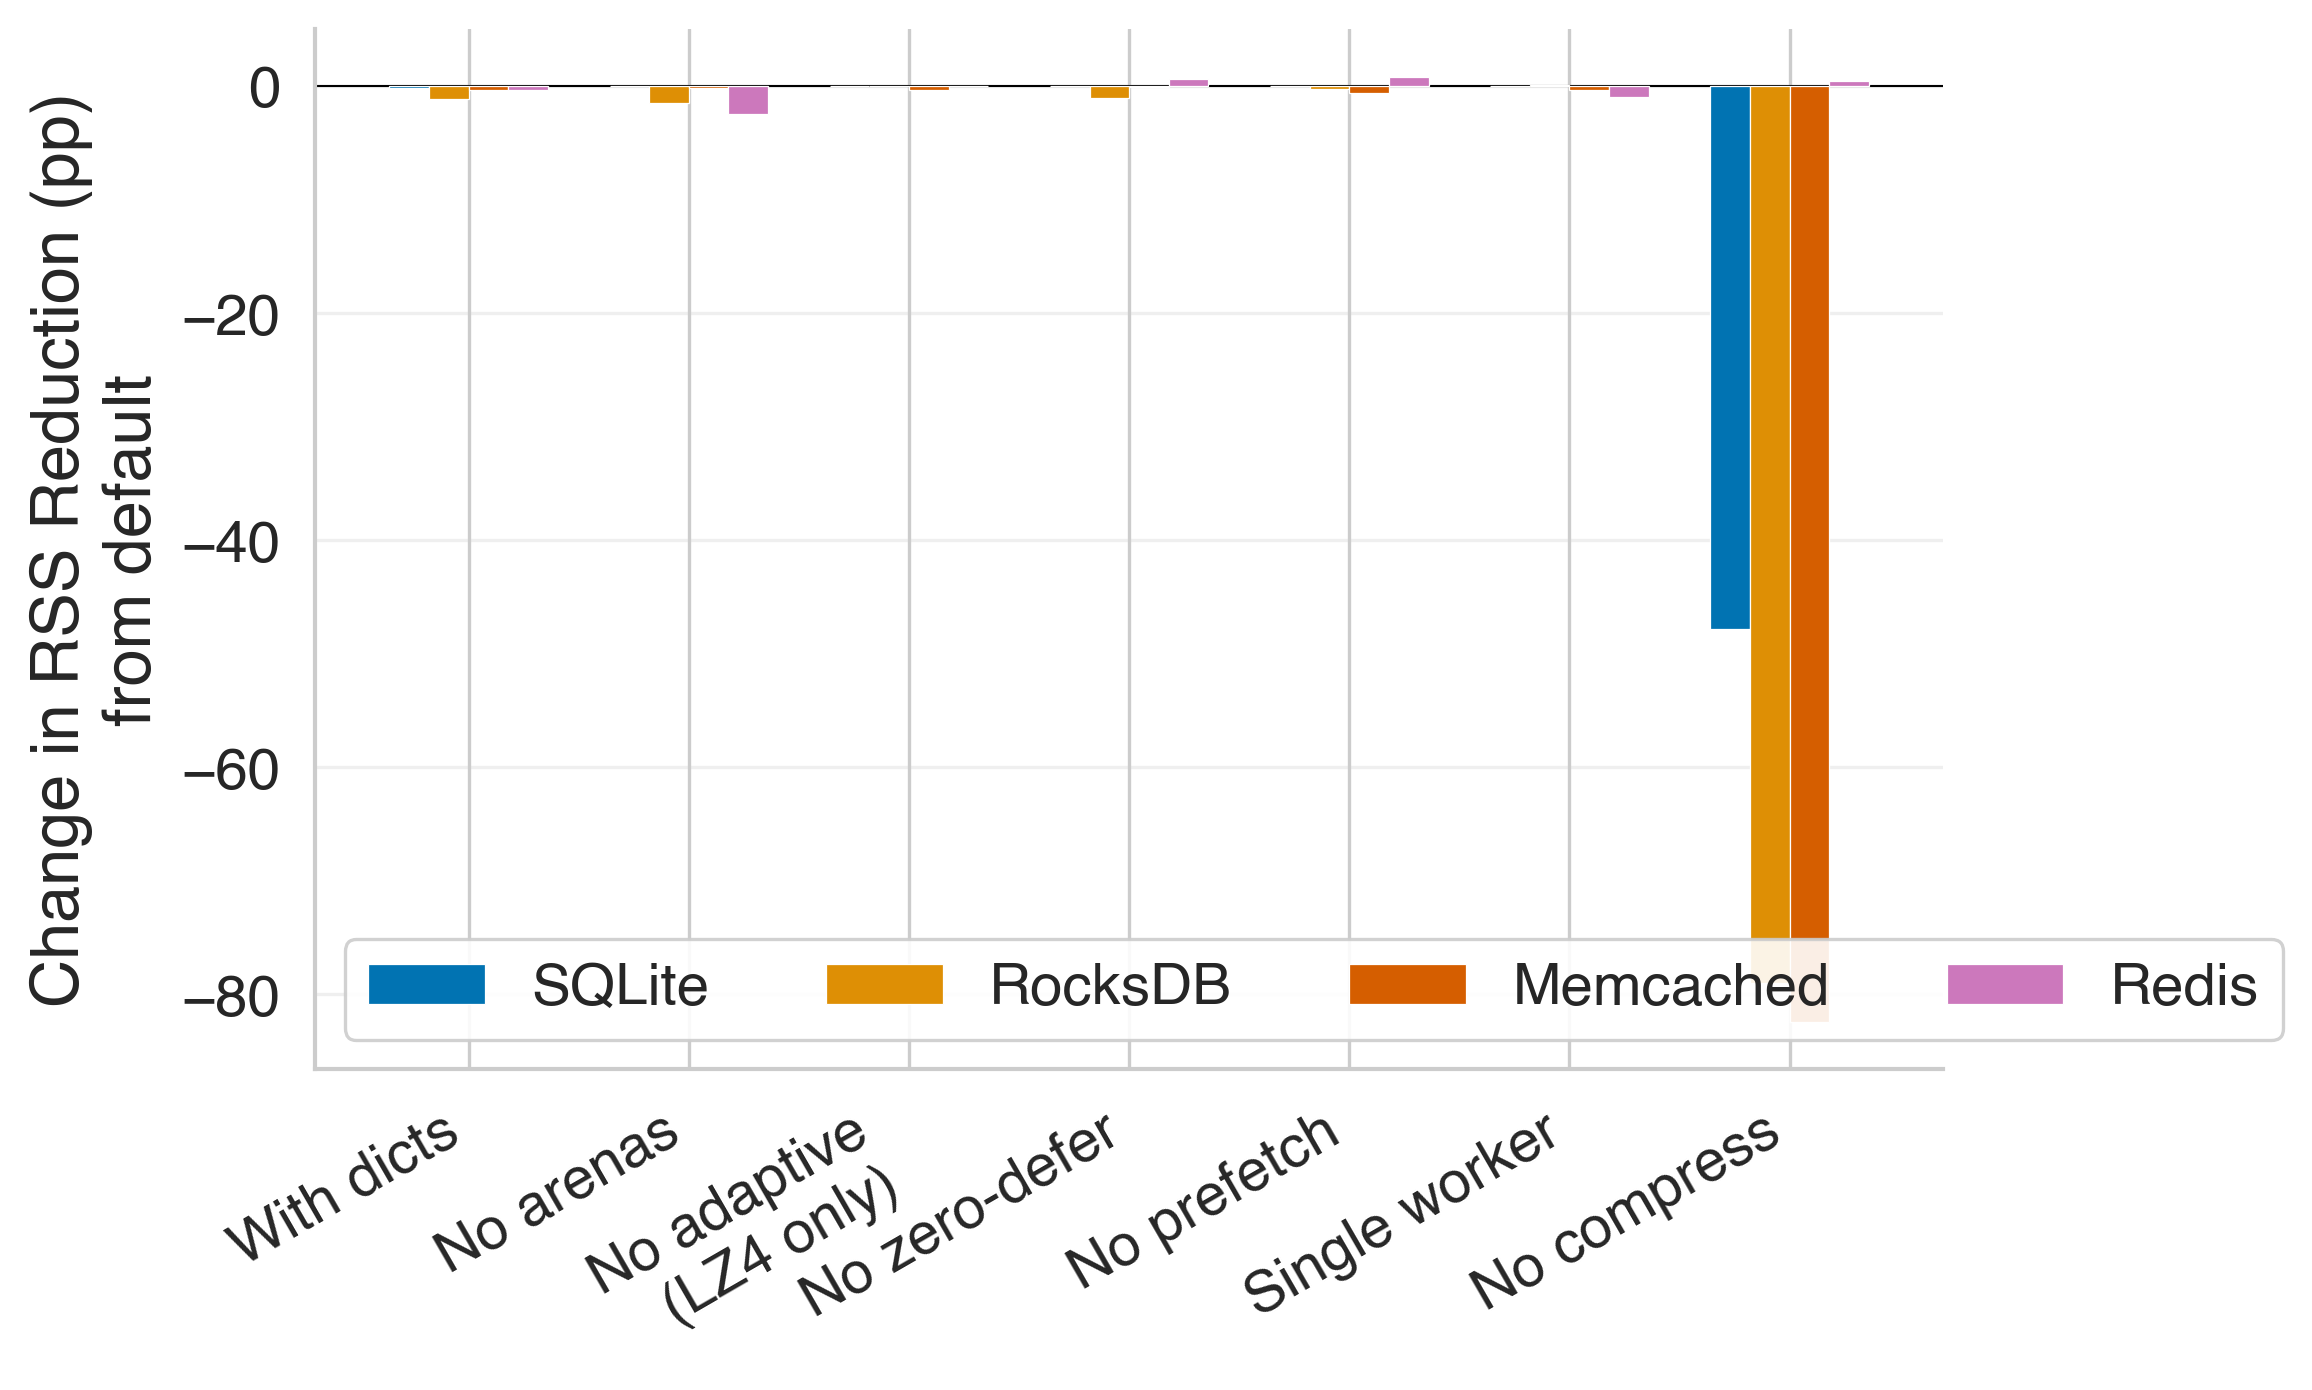
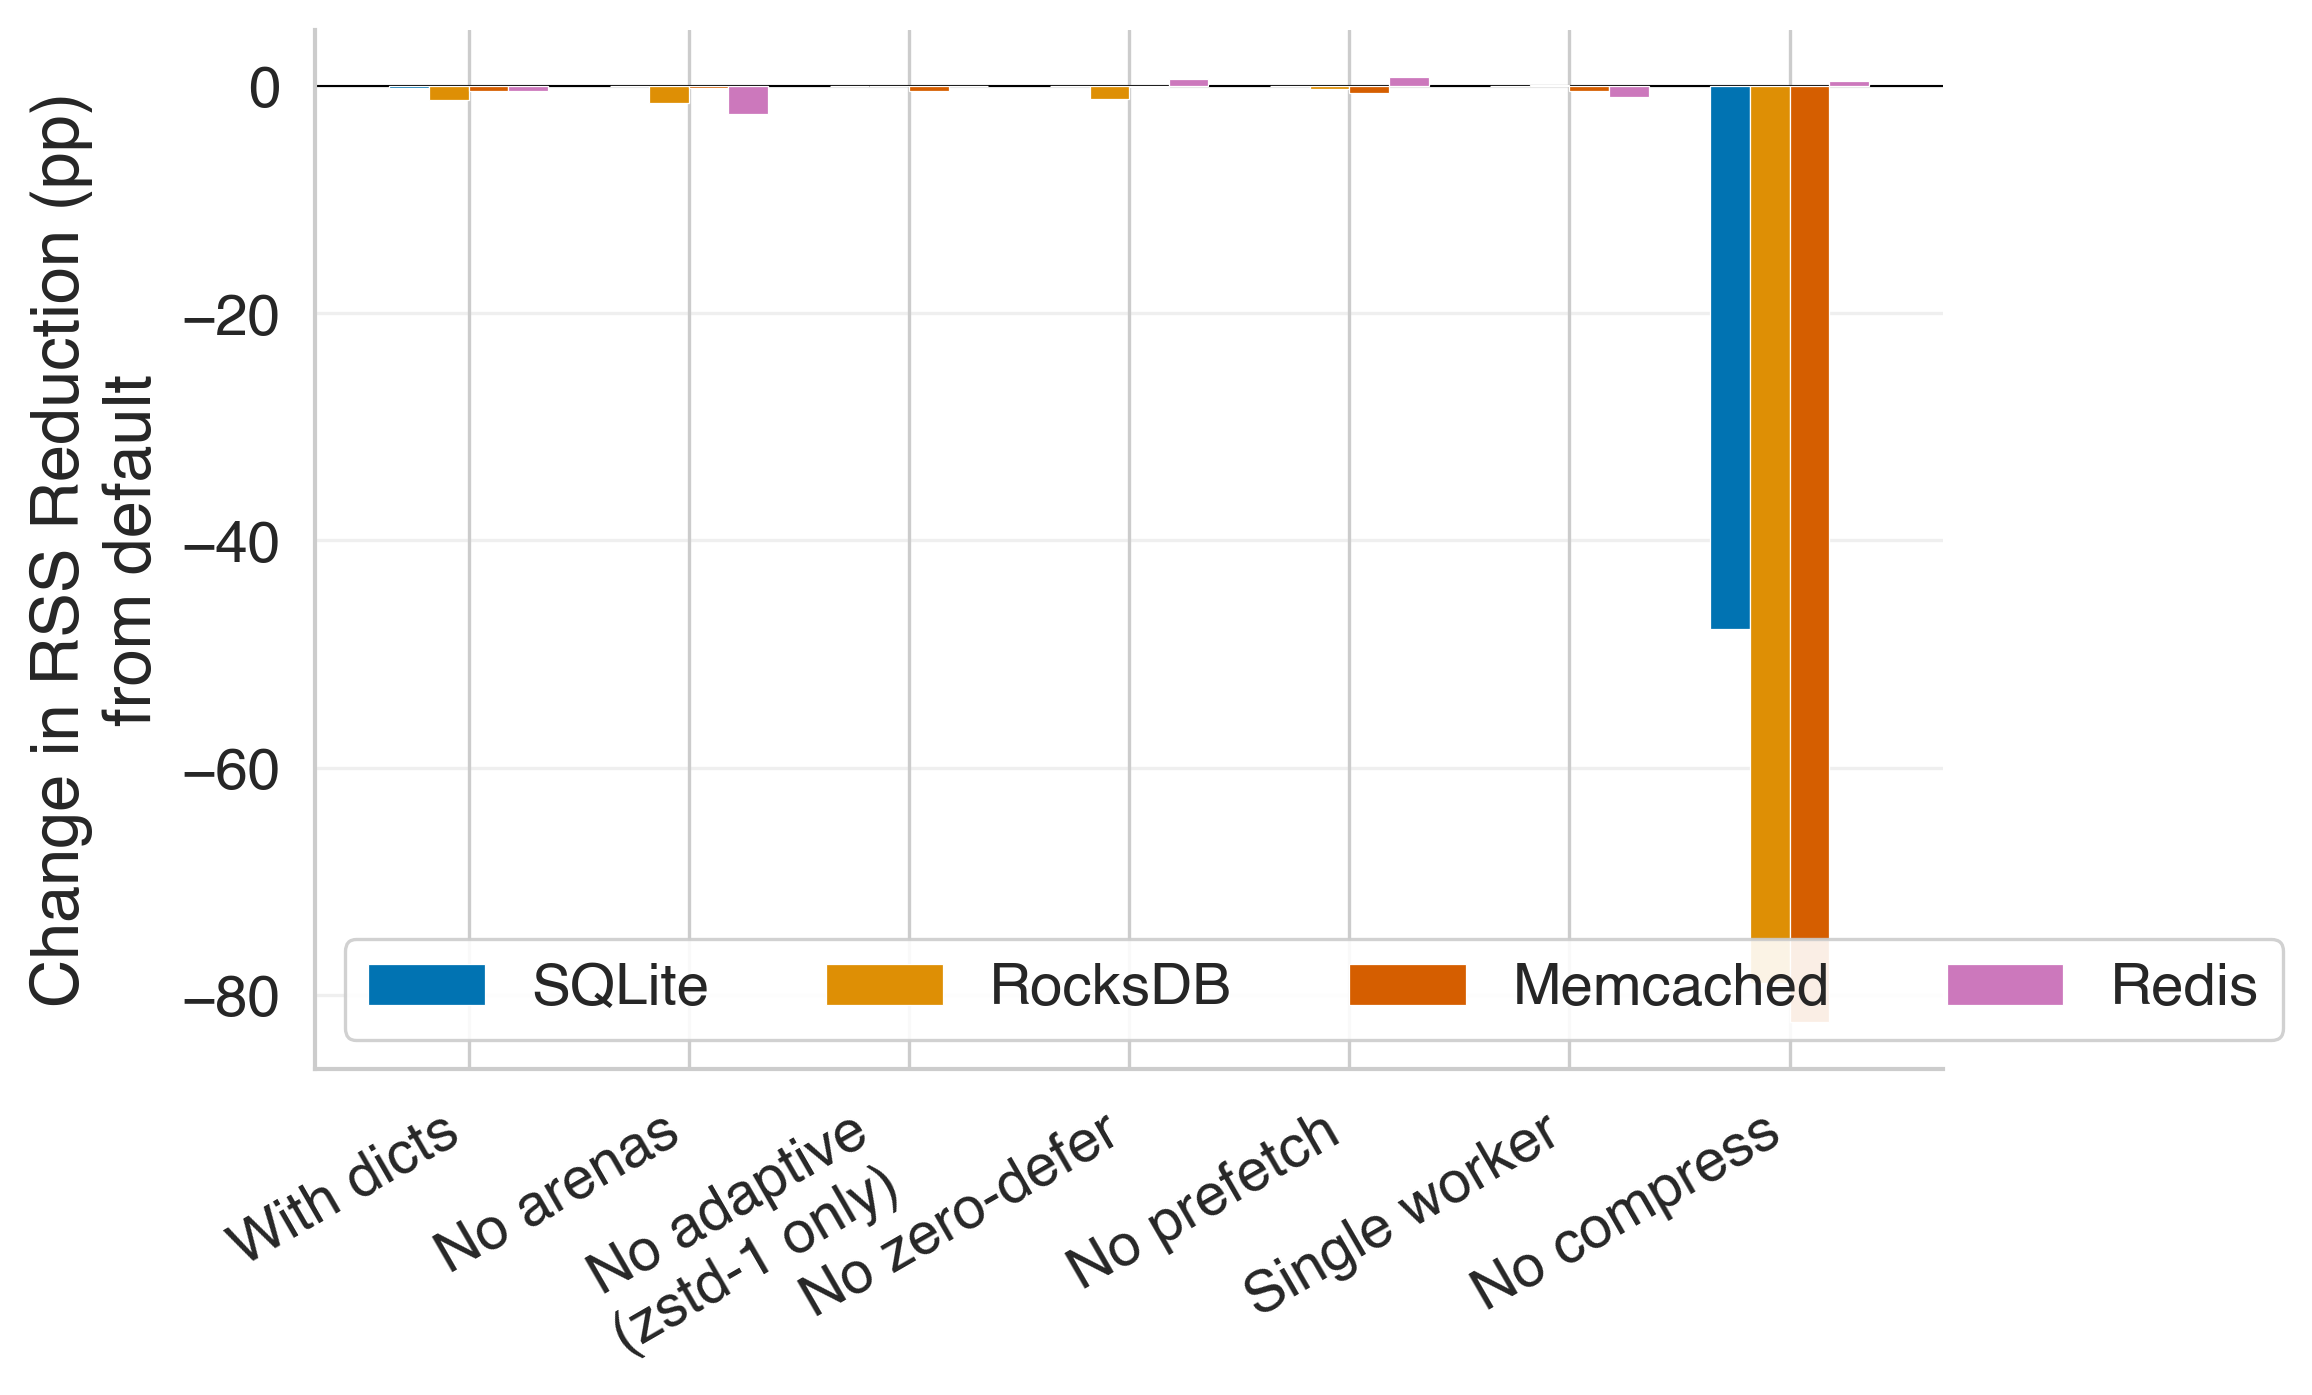
Expand zswap/zsmalloc comparison in related work; fix LZ4 references
Related work: rewrote OS VM compression paragraph with detailed zswap
comparison. Key points:
- zswap is reactive (compresses at swap-out under pressure); Smash is
  proactive (compresses idle pages continuously)
- zswap treats pages as opaque byte arrays with no allocation context;
  Smash groups pages by call site (arenas) and zeros freed slots
- zswap uses a single algorithm per pool; Smash tiers zstd-1 -> zstd-9
- zsmalloc packs variable-size compressed pages efficiently; recent
  kernels consolidated on it (removed zbud, z3fold)
- The two systems are complementary (different layers)

LZ4 references: Smash's default fast tier is zstd-1, not LZ4.
Fixed references in design.tex, fig_arch.tex, fig_heap_org.tex,
evaluation.tex (ablation), related.tex, and ablation plot label.
LZ4 references in algorithm comparison (RQ2) and RocksDB's built-in
compression are correct and unchanged.

diff --git a/paper/related.tex b/paper/related.tex
@@ -8,16 +8,45 @@ pages using WKdm~\cite{wilson1999case,apple2013compressed}, a
 word-granularity dictionary compressor designed for 4\,KiB
 pointer-heavy pages\punt{; on 16\,KiB ARM64 pages with text or serialized
 data, WKdm achieves poor ratios (only 1.01$\times$ on JSON,
-1.07$\times$ on key-value records; Figure~\ref{fig:algo_compare})}.  Linux
-zswap~\cite{jennings2013zswap} intercepts pages heading to swap and
-compresses them with LZ4, LZO, or zstd, operating per-page with no
-cross-page context and no knowledge of which bytes are live objects;
+1.07$\times$ on key-value records; Figure~\ref{fig:algo_compare})}.
+Linux zswap~\cite{jennings2013zswap} intercepts pages at the
+point of swap-out---when memory pressure forces the kernel to
+evict a page, zswap compresses it into a RAM pool backed by
+zsmalloc~\cite{zsmalloc2024} rather than writing it to disk.
+Compression is \emph{reactive}: it only occurs when the system
+is already under pressure, and no compression happens while
+memory is plentiful.  zswap treats each page as an opaque byte
+array with no knowledge of which bytes are live objects, which
+are freed slots containing stale data, or which pages contain
+data from related call sites.  It does not group pages by
+allocation context: a page from a JSON parser and a page from
+a hash table receive identical treatment.  zsmalloc packs
+variable-sized compressed outputs into physical pages using
+size classes and zspage fullness groups, solving the internal
+fragmentation problem that arises from storing variable-length
+compressed pages; recent kernels (6.8+) consolidated on
+zsmalloc, removing the zbud and z3fold alternatives.
 zram~\cite{zram2024} provides a compressed block device in RAM\@.
 Windows~10 compresses pages from the modified page list using the
-Xpress algorithm~\cite{microsoft2015compression}.  All three
-mechanisms treat each page as an opaque byte array.  \sys operates
-above the OS, exploiting object liveness, call-site patterns,
-and per-size-class policies for higher~ratios.
+Xpress algorithm~\cite{microsoft2015compression}.
+
+\sys differs from these OS mechanisms in three ways.
+First, \sys compresses \emph{proactively}: a background thread
+continuously monitors page access patterns and compresses pages
+that have been idle for two compressor ticks ($\sim$2\,s),
+regardless of system memory pressure.  Second, \sys exploits
+allocator-level structure---call-site arena routing groups pages
+with similar data (improving compression ratios), zero-on-free
+eliminates stale data in freed slots, and external metadata keeps
+freelist pointers off data pages.  Third, \sys tiers compression
+adaptively: recently cold pages use zstd at level~1 (fast,
+moderate ratio); pages that remain idle are re-compressed at
+level~9 (slower, higher ratio).  zswap uses a single algorithm
+per pool with no re-compression.
+The two systems are complementary: \sys reduces RSS proactively
+within a process, and zswap compresses whatever the kernel
+subsequently evicts from other processes or from \sys's own
+metadata pages.
 
 \paragraph{Userspace memory compression}
 Chen et al.~\cite{chen2003heap} compress the Java heap during garbage
@@ -29,8 +58,8 @@ non-zero).  Objects are accessed through a handle table; decompressing
 a compressed object requires allocating a fresh block, restoring the
 data, and updating the handle.  By contrast, \sys compresses
 \emph{proactively} on cold pages via a concurrent background thread,
-uses general-purpose compressors (LZ4/zstd) that exploit repeated
-patterns beyond zeros, and decompresses transparently through
+uses general-purpose compressors (zstd at multiple levels) that
+exploit repeated patterns beyond zeros, and decompresses transparently through
 virtual-memory faults with no handle indirection on the normal access
 path.
 Rumble~\cite{rumble2014log} describes a log-structured allocator for

diff --git a/paper/design.tex b/paper/design.tex
@@ -49,7 +49,7 @@ phases (Figure~\ref{fig:arch}).  \emph{Phase~1} updates per-page
 cold counts: for each active or monitored page, if the page was
 accessed since the last tick its cold count resets to zero; otherwise
 the count increments.  \emph{Phase~2} compresses pages whose ROI exceeds a
-threshold, selecting LZ4 or zstd based on the cost--benefit
+threshold, selecting the zstd compression level based on the cost--benefit
 model (\S\ref{sec:design:adaptive}).  \emph{Phase~3}
 marks all remaining ACTIVE pages read-only (\texttt{PROT\_READ}),
 transitioning them to MONITORING.  This is how \sys detects writes:
@@ -229,7 +229,7 @@ Partially-filled slab pages therefore contain a mix of live objects
 and freed slots.  Freed slots hold stale data from their previous
 occupants, which lowers compression ratios.  \sys zeros freed
 slots \emph{lazily at compression time}, replacing stale data with
-zero runs that LZ4 and zstd compress efficiently.
+zero runs that zstd compresses efficiently.
 
 Before compressing a page, the compressor copies the page into a
 scratch buffer, iterates the span's free bitmap to identify freed

diff --git a/paper/evaluation.tex b/paper/evaluation.tex
@@ -354,8 +354,8 @@ dictionaries by default.
 Disabling compression entirely ($-$45.7\,\pp average) confirms that
 compression is the dominant mechanism; without it, \sys reduces to
 a standard allocator with no RSS benefit beyond what the allocator
-design alone provides.  The remaining optimizations---arenas, LZ4-only
-mode (disabling zstd-1), deferred zeroing, prefetch, and
+design alone provides.  The remaining optimizations---arenas, fast-only
+mode (disabling zstd-9 re-compression), deferred zeroing, prefetch, and
 parallelism---each contribute less than 1.5\,\pp individually.
 
 \begin{figure}[t]

diff --git a/paper/fig_arch.tex b/paper/fig_arch.tex
@@ -15,7 +15,7 @@
   \node[state, right=of active, minimum width=2.0cm] (monitor) {\shortstack{MONITORING}};
   \node[state, below=of monitor] (compressing) {COMPRESS};
   \node[state, below=1.4cm of compressing, minimum width=2.4cm] (compressed)
-    {\shortstack{COMPRESSED\\[-2pt]\scriptsize(LZ4 or zstd)}};
+    {\shortstack{COMPRESSED\\[-2pt]\scriptsize(zstd-1 or zstd-9)}};
 
   % Forward transitions (compressor thread) with phase labels
   \draw (empty) edge node[above, font=\scriptsize] {alloc} (active);

diff --git a/paper/fig_heap_org.tex b/paper/fig_heap_org.tex
@@ -125,6 +125,6 @@
   bitmaps, so data pages receive no metadata writes and can go truly
   cold.  Freed slots are zeroed lazily at compression time
   (\S\ref{sec:design:zero}), replacing stale data with long zero runs
-  that LZ4 and zstd compress efficiently.}
+  that zstd compresses efficiently.}
 \label{fig:heap_org}
 \end{figure*}

diff --git a/paper/figures/plot_all.py b/paper/figures/plot_all.py
@@ -193,7 +193,7 @@ def fig_ablation():
     configs = [
         'With dicts',
         'No arenas',
-        'No adaptive\n(LZ4 only)',
+        'No adaptive\n(zstd-1 only)',
         'No zero-defer',
         'No prefetch',
         'Single worker',
